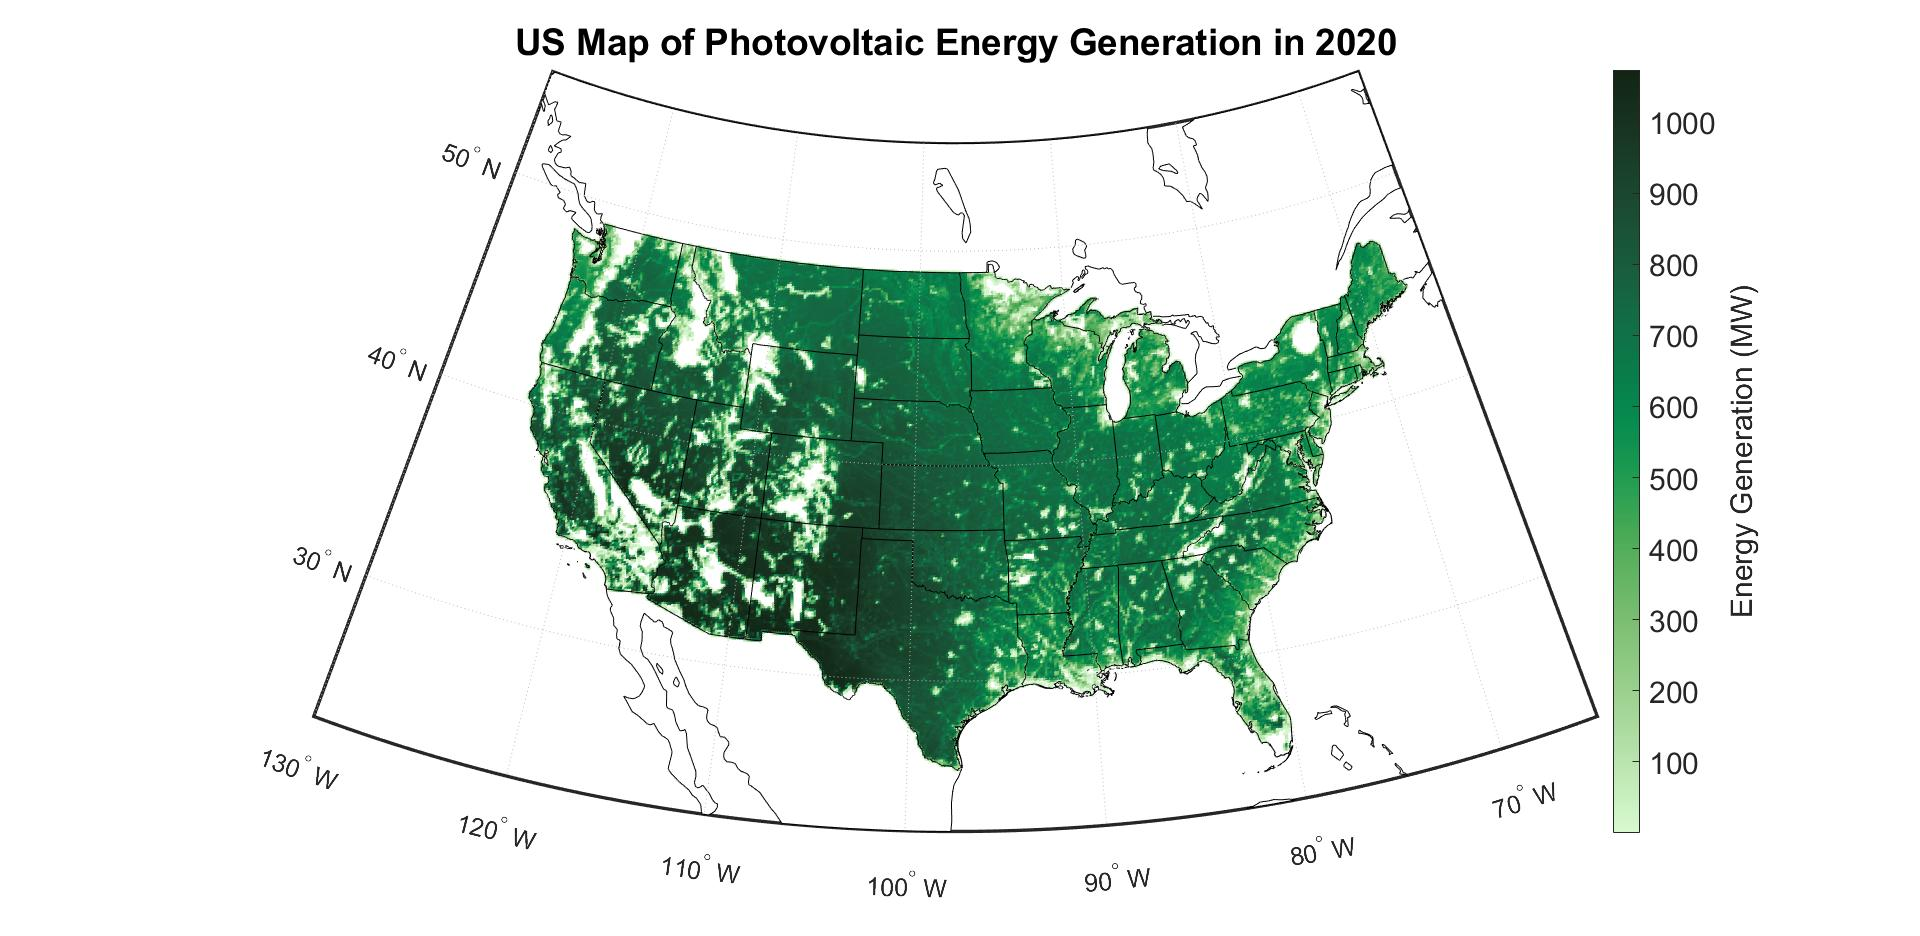
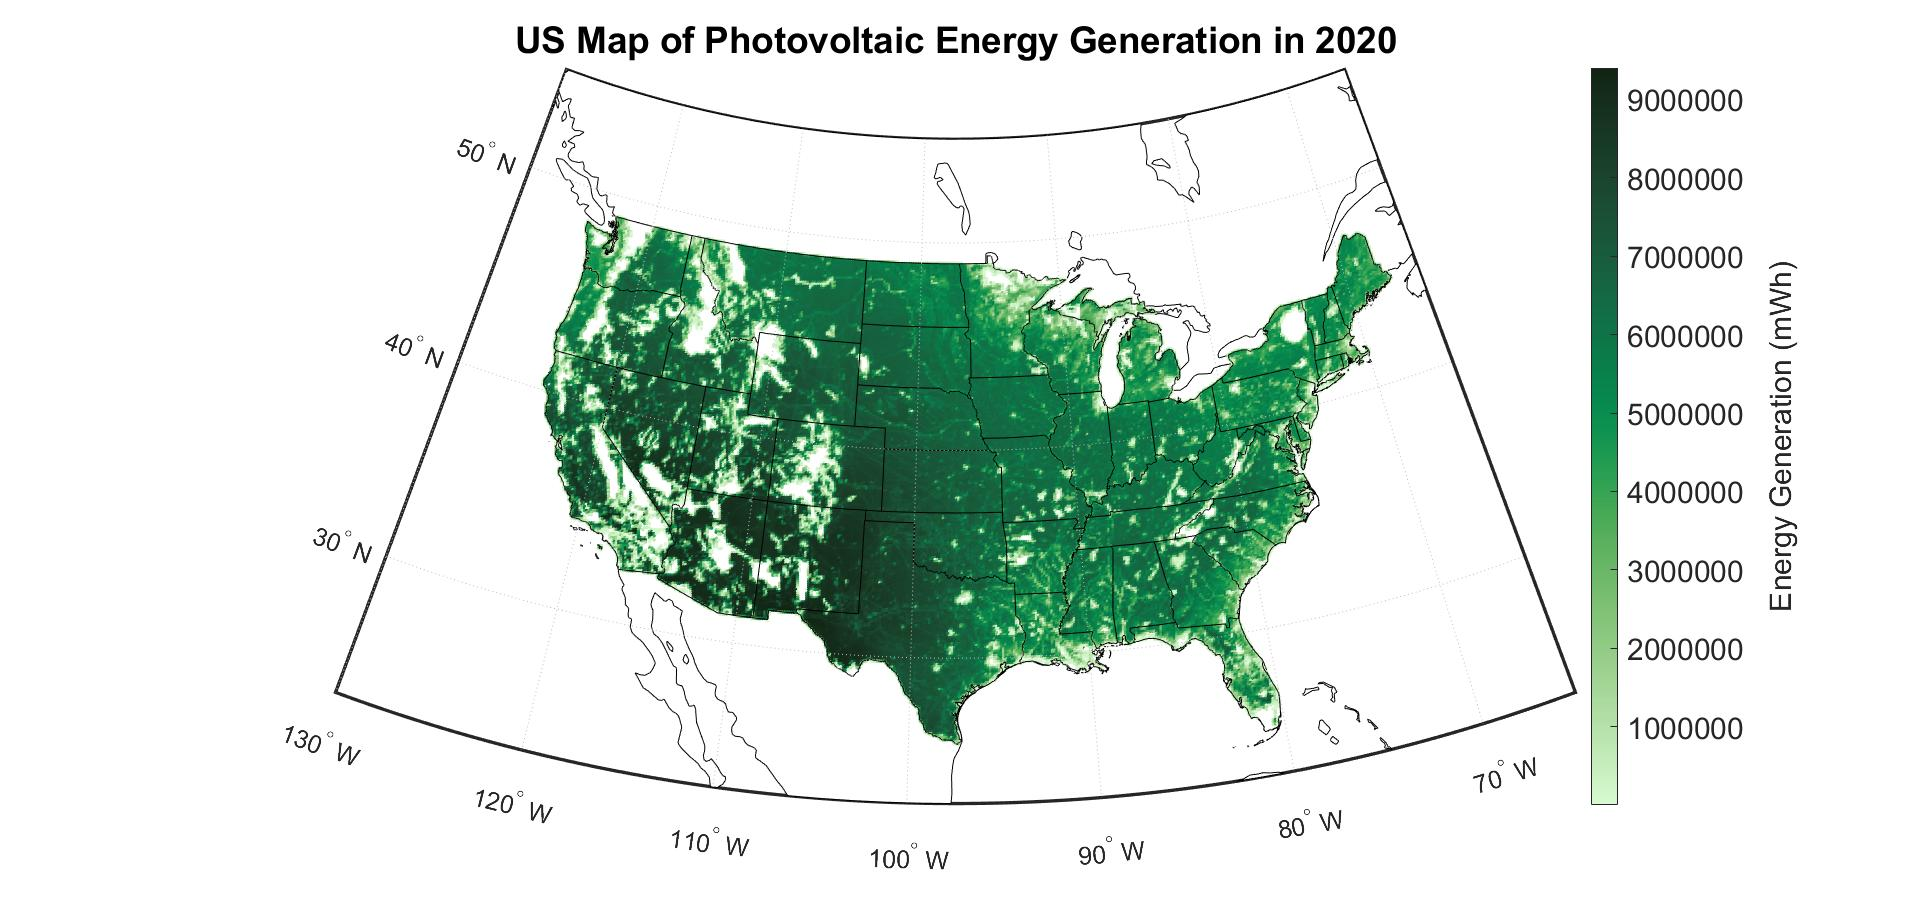
new figure
edited generation figure

diff --git a/testcode.m b/testcode.m
@@ -19,7 +19,7 @@ irradiance = SolarResources(:,3);
 pv_capacity = SolarResources(:,4);
 capacity_factor = SolarResources(:,2);
 Area = SolarResources(:,5);
-generation = pv_capacity.*capacity_factor;
+generation = (pv_capacity*24*365).*capacity_factor;
 latMonth = Monthly(:,4);
 lonMonth = Monthly(:,3);
 AnnDNI = Monthly(:,17);
@@ -140,7 +140,7 @@ hold on
 scatterm(latitudes,longitudes,5,generation,'filled')
 colorbar
 cmocean('algae');
-ylabel(colorbar,'Energy Generation (MW)')
+ylabel(colorbar,'Energy Generation (mWh)')
 title('US Map of Photovoltaic Energy Generation in 2020')
 bordersm('continental us','k')
 ax = gca;
